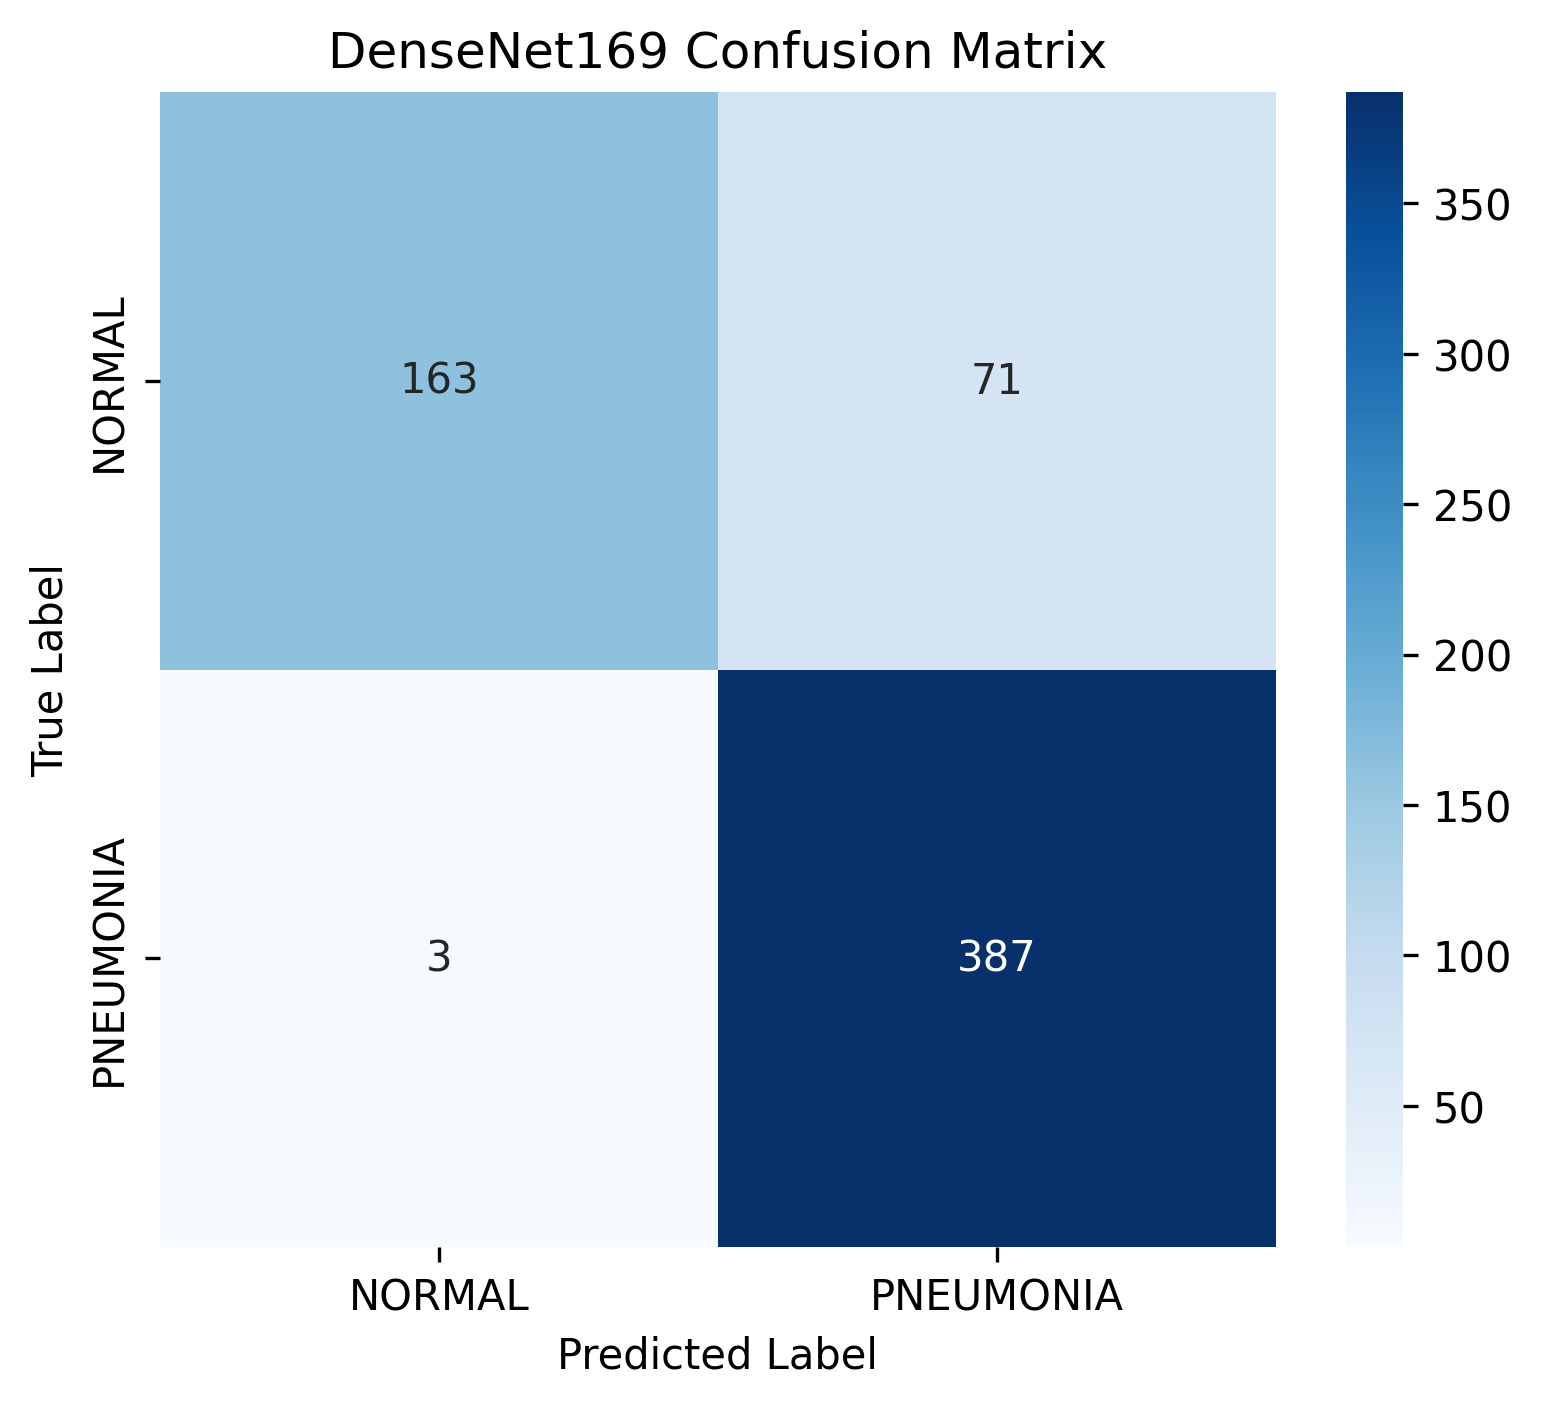
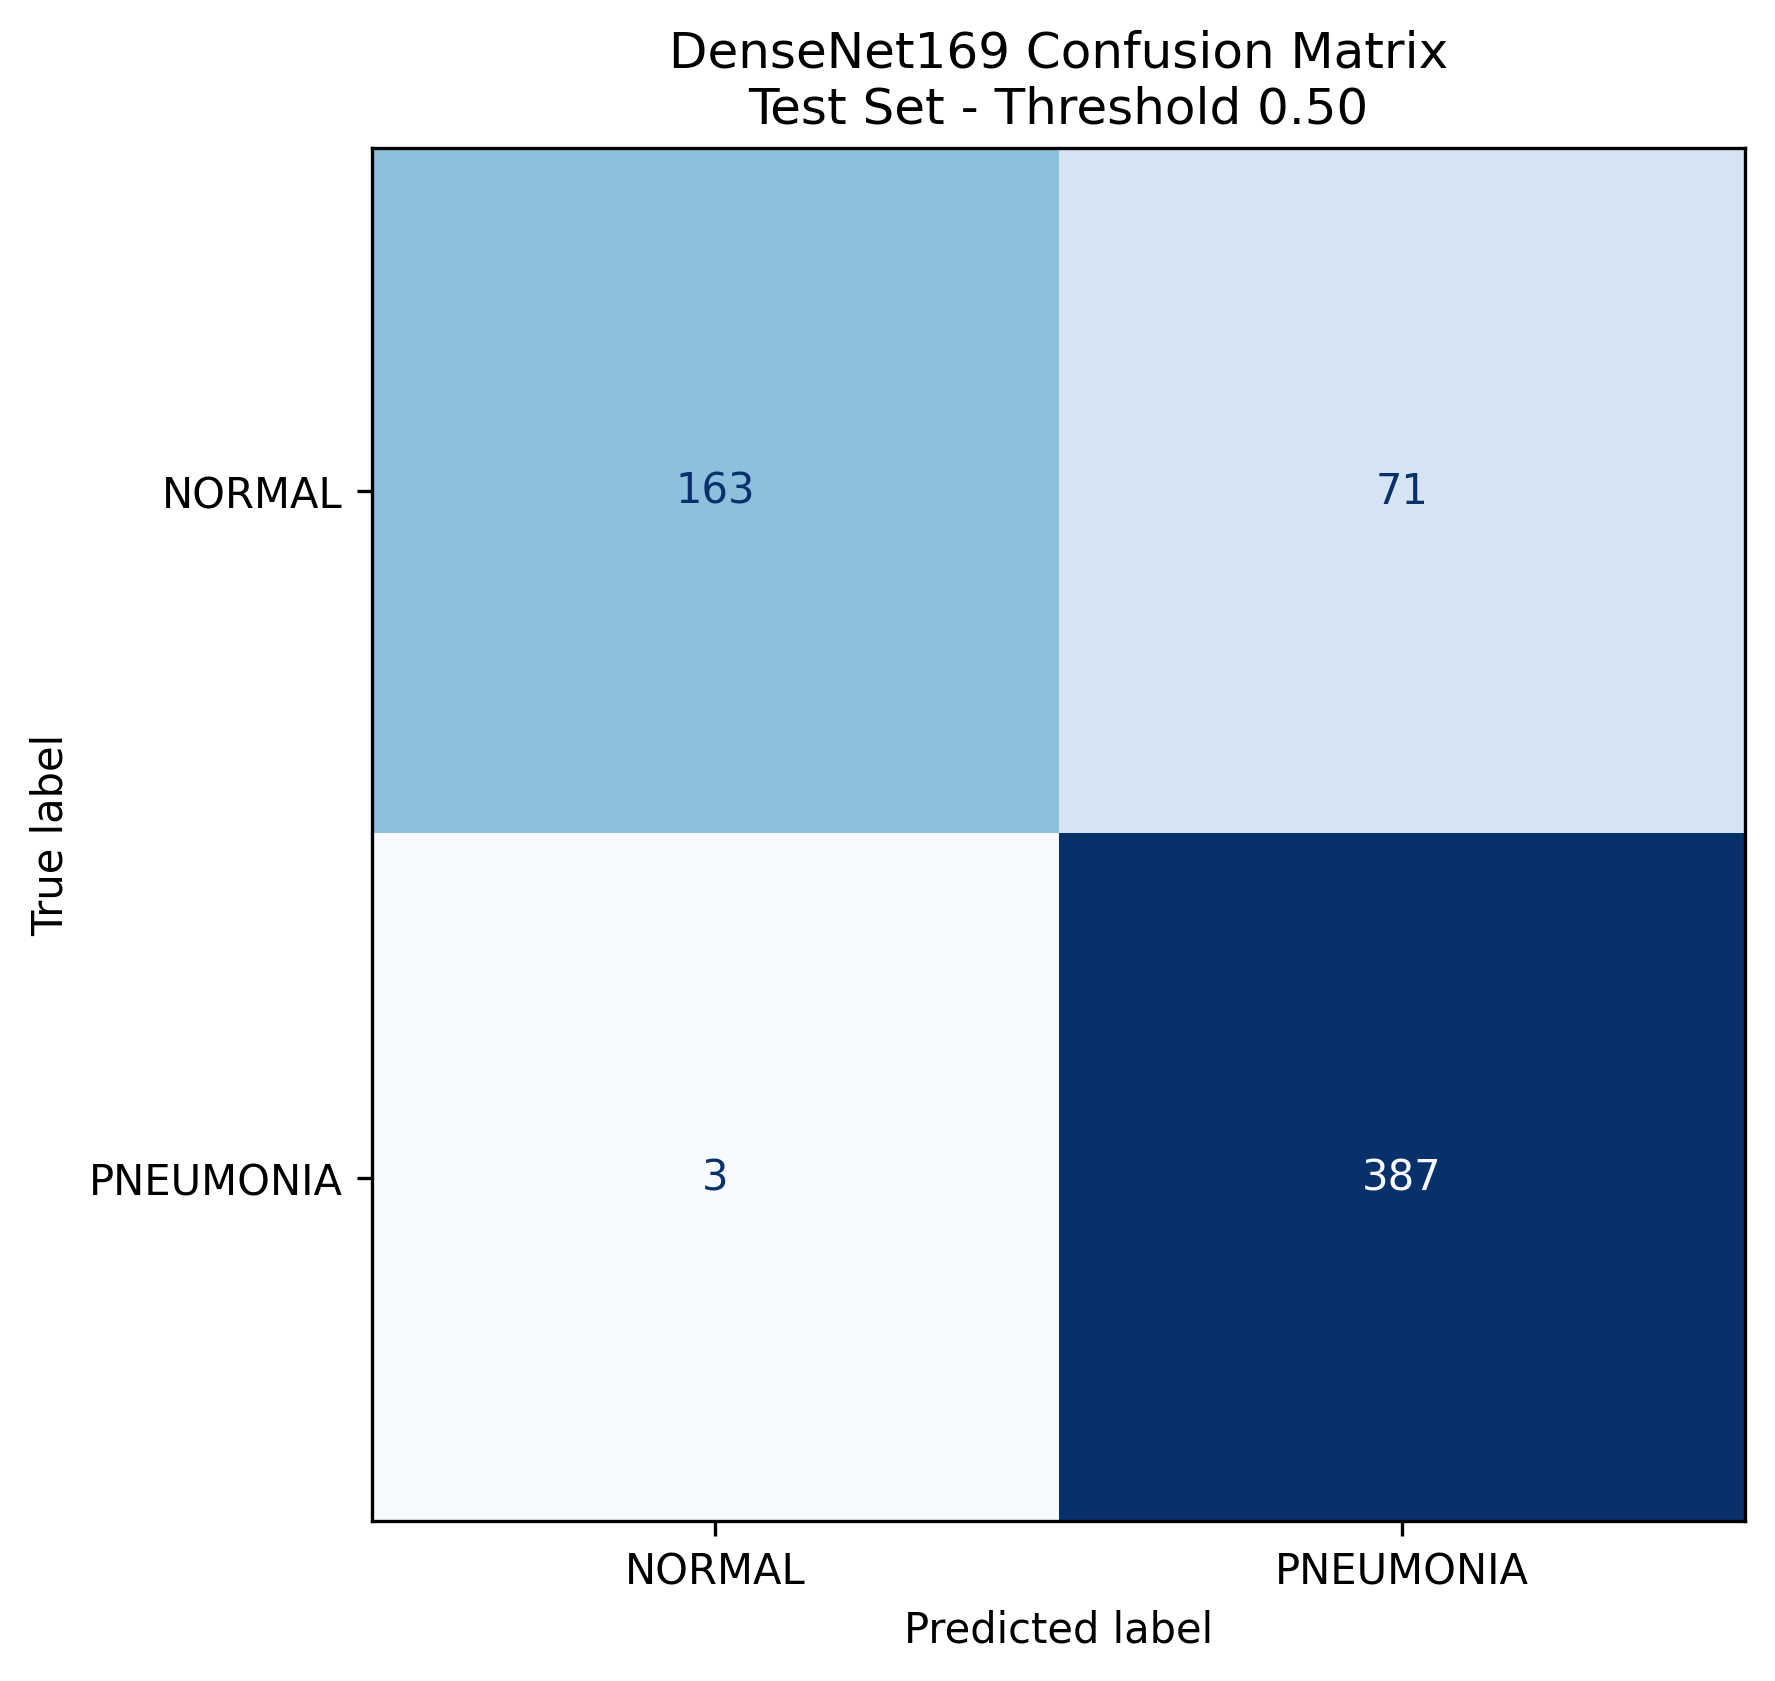
Finalize benchmark threshold and evaluation results

diff --git a/app/app.py b/app/app.py
@@ -24,7 +24,7 @@ MODEL_PATH = PROJECT_ROOT / "models" / "densenet169_pneumonia.pth"
 DEVICE = torch.device("cpu")
 
 # Current project threshold
-FINAL_THRESHOLD = 0.70
+FINAL_THRESHOLD = 0.50
 
 
 # --------------------------------------------------
